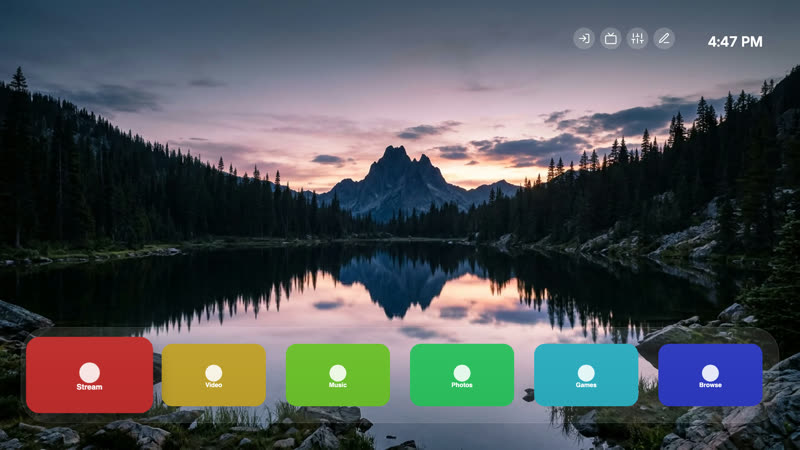
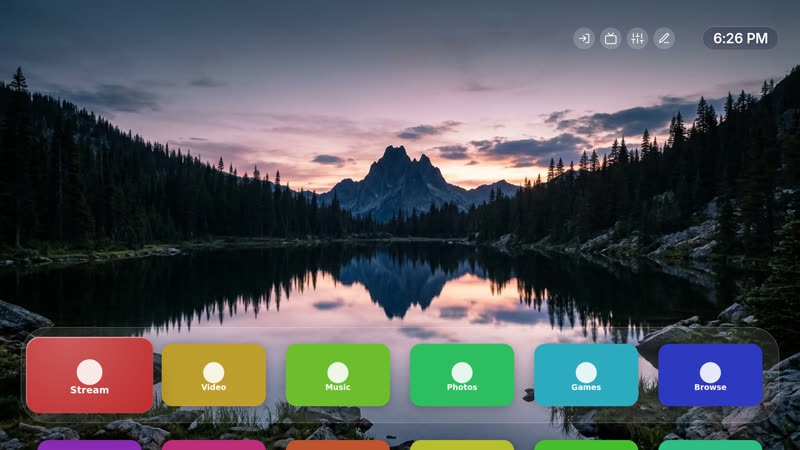
Lounge theme: smooth focus, names under the tiles, peek and row scrolling, pill clock, Wallpapers
Uses the new engine settings with the tvOS 26 values: smooth motion at speed 1
(grow 0.25 s, shrink 0.5 s, page 0.5 s), the highlight and rim on the focused
tile, soft shadows, press to 1.11 and a launch zoom, the app's name under the
focused grid tile, a 110 px row gap, the first row peeking 24 px, whole-row
scrolling, a darker grid glass, a brighter platter rim, the time in a glass
pill lined up with the buttons, and the scenes stepping aside for Wallpapers.
Listed in themes/README.md and docs/themes.md; new preview and index.

diff --git a/docs/themes.md b/docs/themes.md
@@ -40,6 +40,7 @@ folder of the GitHub repository (the `main` branch):
 | Couch | After [couch-tv](https://github.com/Seagey/couch-tv): five landscapes take turns every 20 seconds behind a large glass clock, the scenery in front of the digits; the date above the clock, round buttons top right, the apps on glass at the bottom; cards on frosted glass. Uses `clock.style`, `effects.scenes` and `cards.style`. |
 | Lock Screen | A phone-style lock screen: a greeting and a big clock top left, and a small, translucent dock low in the corner over a calm blue landscape, so the picture fills the screen. Down moves the dock up and shows all apps below it. Turn Wallpapers on for your own photos. It has slots for cards (Customise > Cards): the greeting is one, and there is a place under the clock. |
 | Moon | A moonlit autumn landscape with a four-app glass dock, warm focus, app-colour rails and places for cards around the clock. |
+| Lounge | A streaming-box home screen: six wide icons on a glass platter over the Couch landscapes (or your Wallpapers photos), smooth focus with a soft light and shadow, the app's name under it in the grid, a glass pill clock, and a first grid row that peeks at the bottom. Uses `effects.motion`, `tile.label`, `grid.peek`, `grid.scroll` and `effects.scenesYield`. |
 
 ![Classic, Compact, Large print and Midnight](screenshots/themes-1.jpg)
 

diff --git a/themes/README.md b/themes/README.md
@@ -79,6 +79,14 @@ A moonlit autumn landscape with a four-app glass dock, warm focus, app-colour ra
 
 Folder: [`moon/`](moon/)
 
+### Lounge
+
+A streaming-box home screen: six wide icons on a glass platter at the bottom over the Couch landscapes, or over your own photos when Wallpapers is on. The focused app grows smoothly with a soft light and shadow and its name under it in the grid; the time sits in a small glass pill. Down turns the row into the first row of the grid, which peeks at the bottom of the screen, over frosted glass. Typeface: Inter (SIL Open Font License, `OFL.txt`).
+
+[![Lounge](lounge/preview.jpg)](lounge/preview.jpg)
+
+Folder: [`lounge/`](lounge/)
+
 ### Horizon
 
 A row of seven square apps along the bottom of a dusk landscape, the clock on the left and the buttons on the right at the top. Down moves the row up and shows all apps below it.
